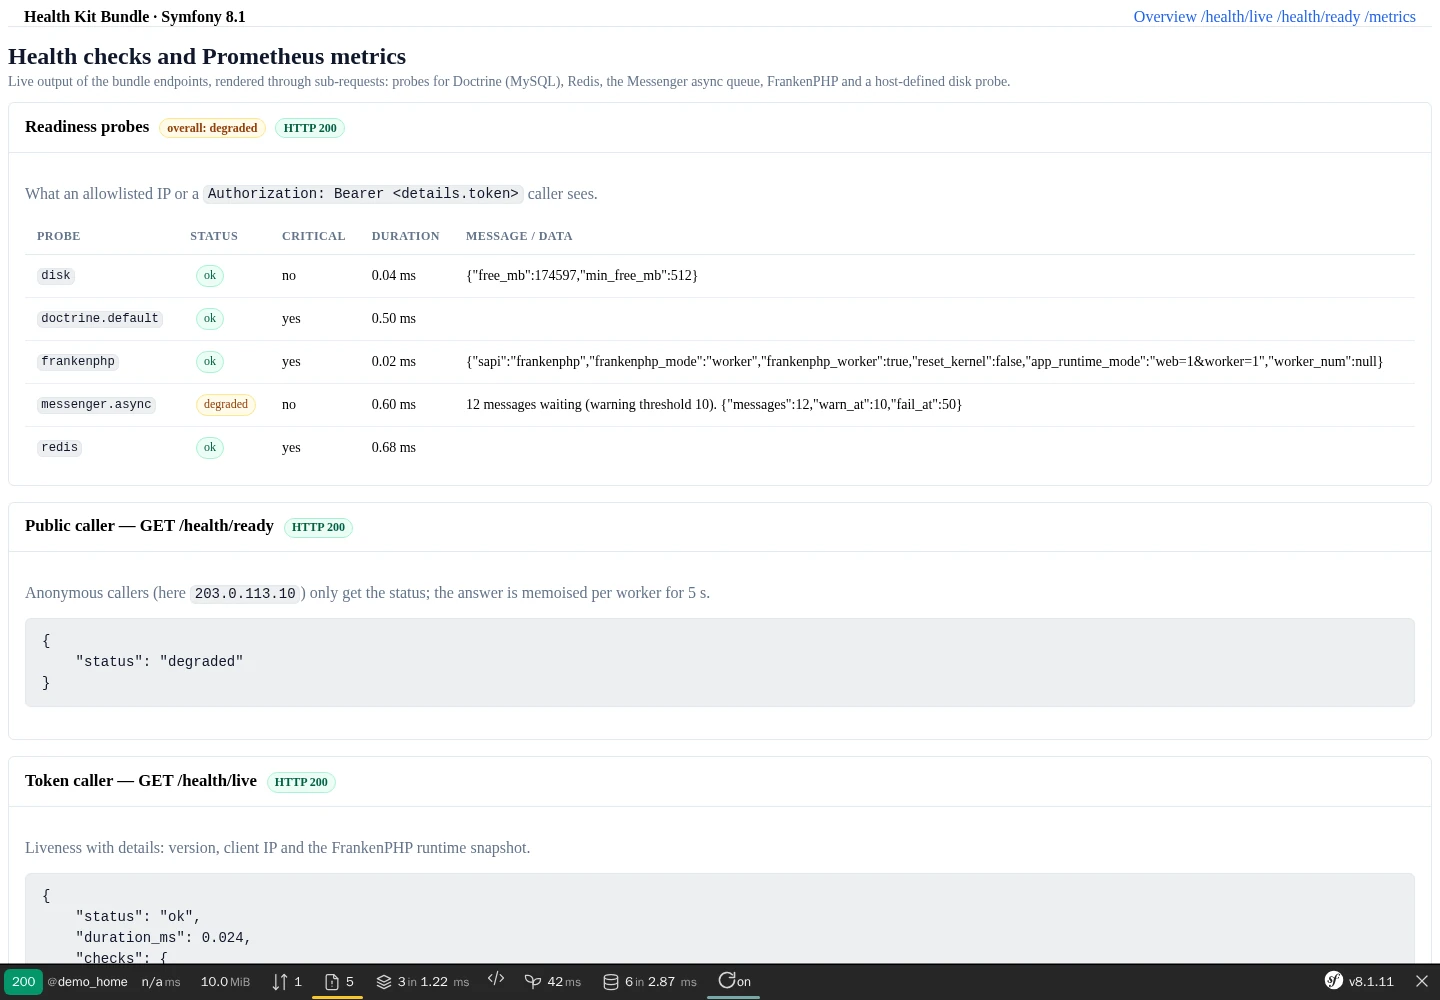
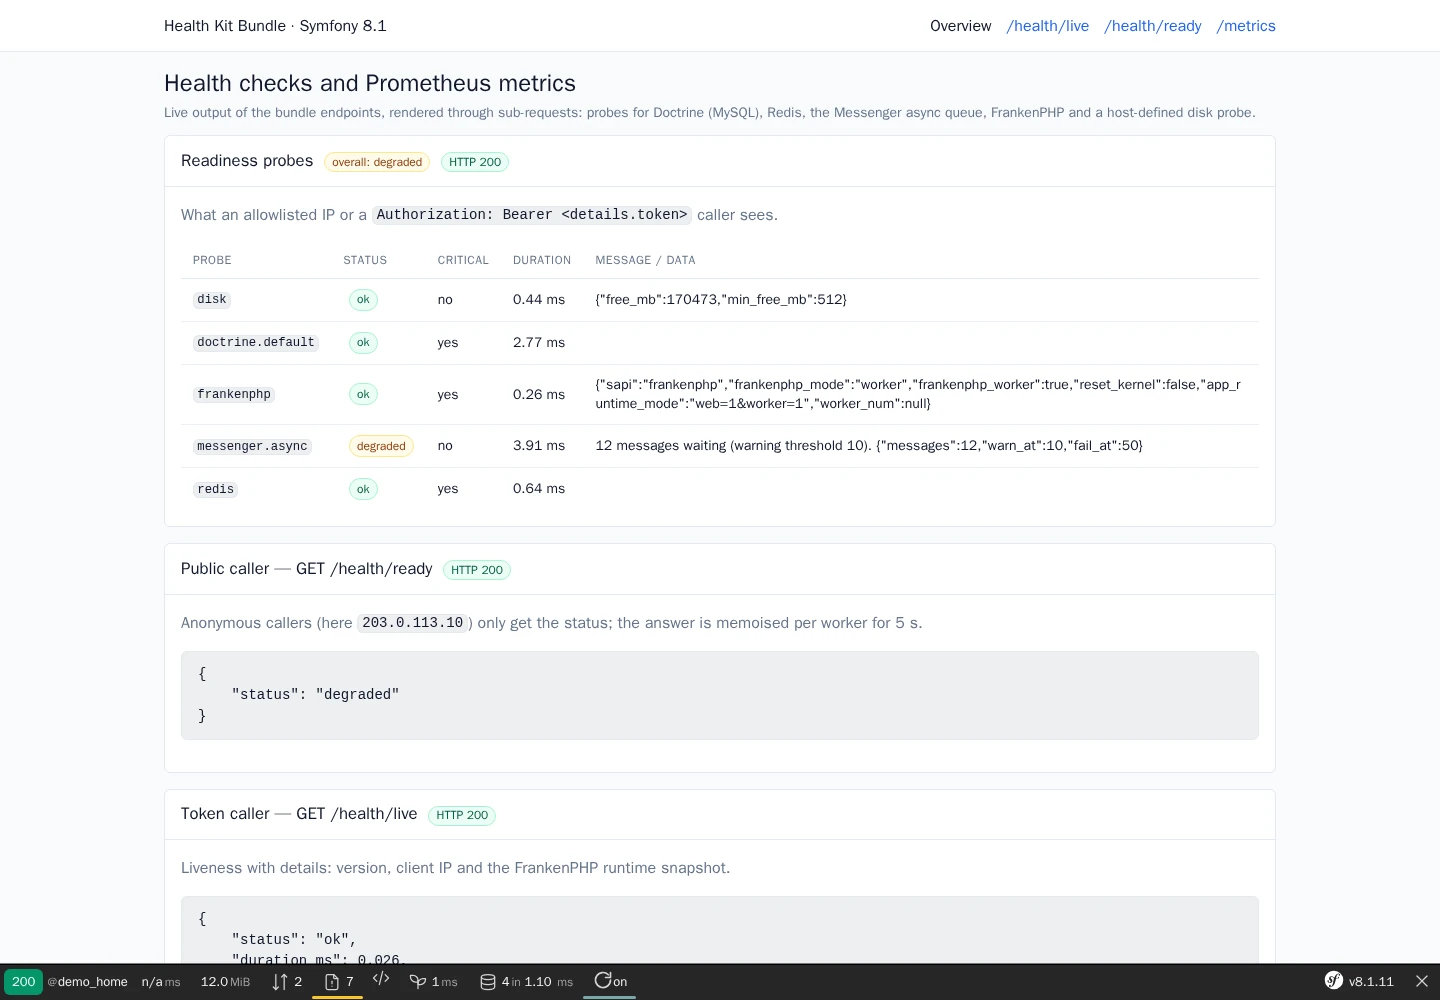
chore(docs): demo opts into UiKit base theme, masthead nav fixed, screenshots regenerated

diff --git a/demo/symfony8/config/reference.php b/demo/symfony8/config/reference.php
@@ -1060,6 +1060,7 @@ use Symfony\Component\Config\Loader\ParamConfigurator as Param;
  *             testid?: scalar|Param|null, // Default: null
  *         }>,
  *     },
+ *     base_stylesheet?: bool|Param, // 2.51: link UiKit's opt-in default theme (css/nowo-ui-base.css) before nowo-ui.css in the document / error layouts: body font stack, page gutters and masthead height for hosts that bring no CSS framework and no theme stylesheet. Its rules nest in `@layer theme.nowo-ui-base`, below `base`, so a framework, host utilities and unlayered host CSS still win. Leave it false when the host already has a framework or a theme file. // Default: false
  *     font_preload?: array{ // 2.21: <link rel="preload" as="font" crossorigin> tags printed in the <head> of the document and error layouts (Twig nowo_ui_font_preload()) for the fonts painted above the fold. Empty = no tags.
  *         fonts?: list<scalar|Param|null>,
  *         manifest?: array{ // Hashed builds: pick the fonts from a Vite manifest (.vite/manifest.json). A missing manifest (dev server) prints nothing.

diff --git a/docs/CHANGELOG.md b/docs/CHANGELOG.md
@@ -8,6 +8,7 @@ All notable changes to this project are documented here. The format follows
 ### Changed
 
 - docs: demo screenshots regenerated on the UiKit base style
+- demo: opt into UiKit 2.51 `nowo_ui_kit.base_stylesheet`, use `nowo-ui-header__nav` for the masthead nav, screenshots regenerated with the themed shell
 
 ## [1.2.0] - 2026-11-13
 
